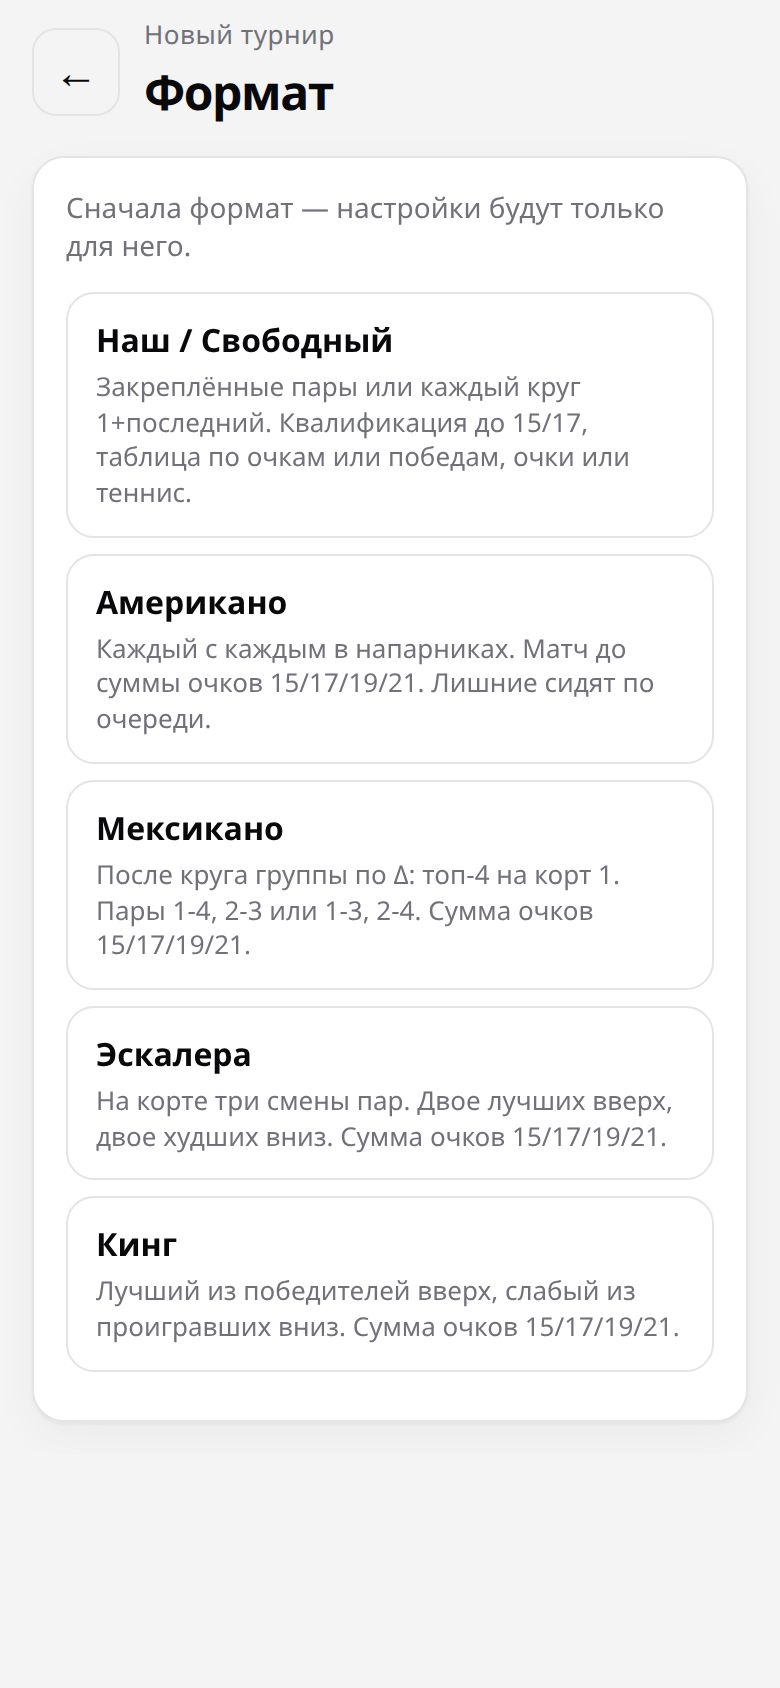
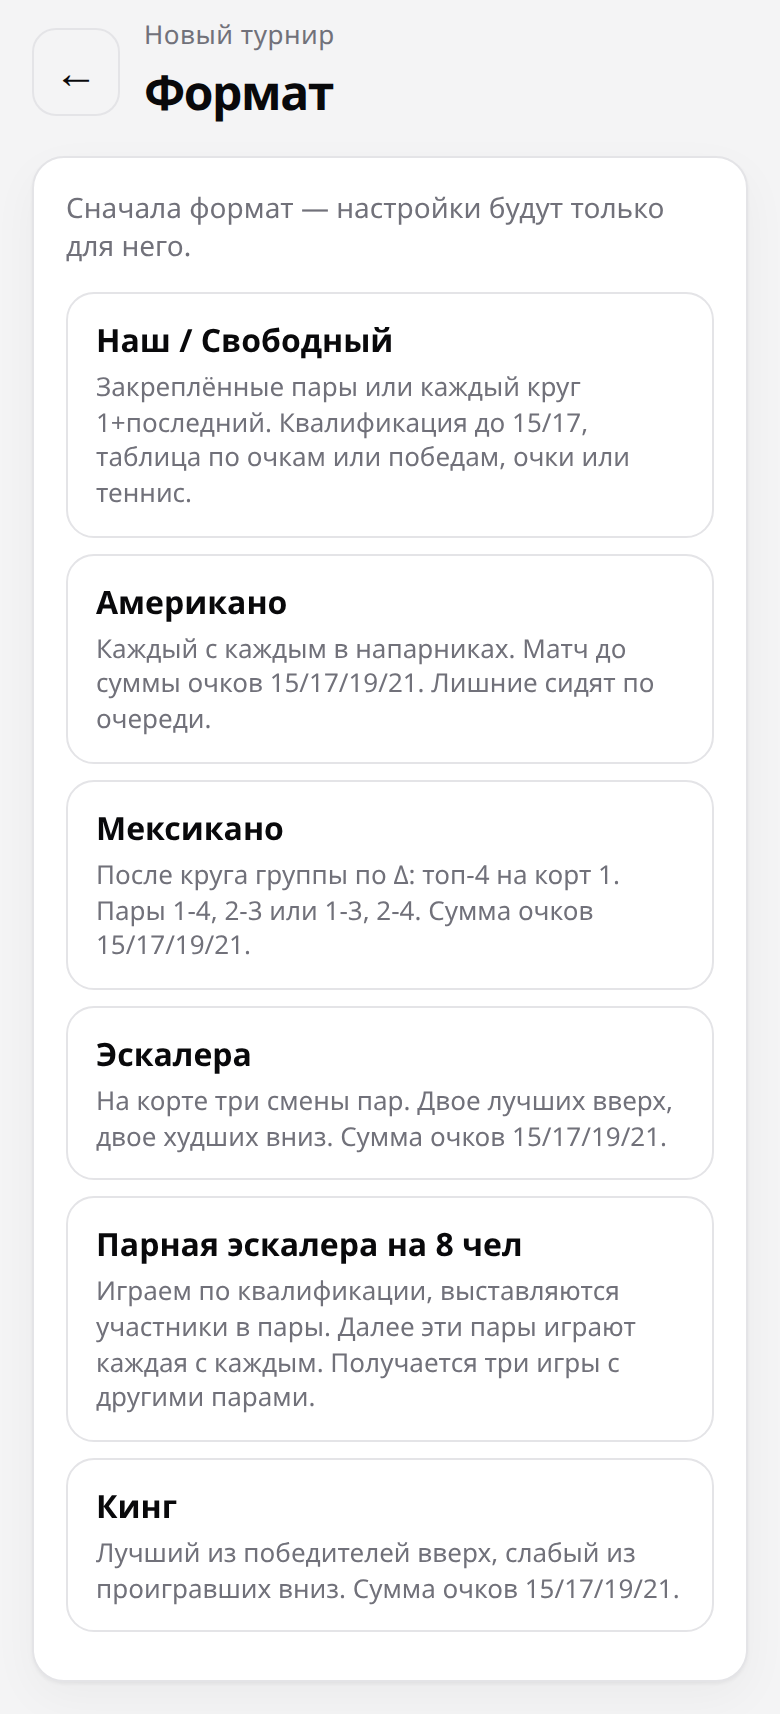
feat(tracker): add pair escalera mode for 8 players (#22)
Bump 0.7.17. Rank 1+last (or mixed skip-from-bottom), 3-round
pair round-robin on 2 courts, then «Новые пары составляем».

diff --git a/tracker/js/render.js b/tracker/js/render.js
@@ -10,7 +10,7 @@ import {
 } from './scoring.js';
 import { computeStandings, sortStandings, standingMarks } from './standings.js';
 import { autoCourts, compactMatchLine, compactSittingLine, formatMatchLine, genderCounts } from './pairing.js';
-import { FORMAT_OPTIONS, formatTitle } from './formats.js';
+import { FORMAT_OPTIONS, formatTitle, pairEscaleraCycleComplete } from './formats.js';
 import { PAIR_CHANGE_METHODS } from './fixed.js';
 import { activeTournament, ensureMatchGames, isFinished } from './state.js';
 import {
@@ -323,6 +323,14 @@ function renderFormatSettings(s, { draft = false, players = [], hideQualifying =
   const toggle = draft ? 'draft-toggle' : 'toggle';
   const toggleBool = draft ? 'draft-toggle-bool' : 'toggle-bool';
   const okMixed = players.length ? canPlayMixed(players) : true;
+  if (format === 'pair-escalera') {
+    return `
+      ${renderMixed(s, action, okMixed, players)}
+      <p class="hint">Ровно 8 игроков, 2 корта. Три круга — каждая пара играет с каждой, затем новые пары по таблице.</p>
+      <h3>Счёт матча</h3>
+      <p class="hint">Как в Lunda: игра до суммы очков, без разницы в 2.</p>
+      ${renderScoringFields(s, { lunda: true, draft })}`;
+  }
   if (format === 'free') {
     return `
       ${renderPairLock(s, action)}
@@ -516,8 +524,11 @@ export function renderScoringFields(s, { lunda = false, draft = false } = {}) {
     ${gamesOn ? renderGamesFields(s, { draft }) : totalOn ? renderTotalPointsFields(s, { draft }) : renderPointsFields(s, { draft })}`;
 }
 
-function rosterHint(players) {
+function rosterHint(players, format) {
   const n = players.length;
+  if (format === 'pair-escalera') {
+    return n === 8 ? '8 игроков · 2 корта' : `${n} игроков · нужно ровно 8`;
+  }
   const courts = autoCourts(n);
   const sit = n % 4;
   if (n < 4) return `${n} игроков · нужно минимум 4`;
@@ -545,14 +556,16 @@ function renderPlayers(store, tournament) {
       </li>`,
     )
     .join('');
-  const ready = players.length >= 4;
+  const format = tournament.settings.tournamentFormat || 'free';
+  const ready = format === 'pair-escalera' ? players.length === 8 : players.length >= 4;
+  const hideAdd = Boolean(finished || (format === 'pair-escalera' && players.length >= 8));
   return `
     <section class="card">
       <h2>Участники</h2>
-      <p class="hint">${esc(rosterHint(players))}${finished ? ' Турнир завершён.' : ''}</p>
+      <p class="hint">${esc(rosterHint(players, format))}${finished ? ' Турнир завершён.' : ''}</p>
       <ul class="player-list">${rows || '<li class="empty">Пока никого нет</li>'}</ul>
       ${
-        finished
+        hideAdd
           ? ''
           : `<form class="add-row" data-action="add-player-form">
         <input class="input" id="add-name" name="name" placeholder="Имя игрока" maxlength="40" autocomplete="off" required />
@@ -570,6 +583,14 @@ function renderPlayers(store, tournament) {
 
 function renderPlay(store, tournament) {
   const playersById = new Map(tournament.players.map((p) => [p.id, p]));
+  const format = tournament.settings.tournamentFormat || 'free';
+  if (format === 'pair-escalera' && tournament.players.length !== 8) {
+    return `
+      <section class="card">
+        <h2>Игры</h2>
+        <p class="hint">Для парной эскалеры нужно ровно 8 игроков (сейчас ${tournament.players.length}).</p>
+      </section>`;
+  }
   if (tournament.players.length < 4) {
     return `
       <section class="card">
@@ -583,7 +604,7 @@ function renderPlay(store, tournament) {
   const lastDone = last && last.matches.every((m) => matchComplete(m, lastSettings, last.kind));
   const mustQual = mustStartWithQualifying(tournament.settings, tournament.rounds);
   const canQual = mustQual && (!last || lastDone);
-  const format = tournament.settings.tournamentFormat || 'free';
+  const cycleDone = pairEscaleraCycleComplete(last) && lastDone;
   const nextLabel =
     format === 'king'
       ? 'Сдвиг короля'
@@ -602,9 +623,14 @@ function renderPlay(store, tournament) {
       `<button type="button" class="btn btn-primary" id="btn-qualifying" data-action="gen-round" data-kind="qualifying">Квалификация</button>`,
     );
   }
-  if (!finished && !mustQual && (!last || lastDone)) {
+  if (!finished && !mustQual && (!last || lastDone) && !cycleDone) {
     actions.push(
       `<button type="button" class="btn btn-primary" id="btn-next-round" data-action="gen-round" data-kind="regular">${nextLabel}</button>`,
+    );
+  }
+  if (!finished && cycleDone) {
+    actions.push(
+      `<button type="button" class="btn btn-primary" id="btn-new-pair-cycle" data-action="gen-round" data-kind="regular">Новые пары составляем</button>`,
     );
   }
   const roundHasEnteredScores = Boolean(

diff --git a/tracker/js/formats.js b/tracker/js/formats.js
@@ -1,11 +1,12 @@
 import { countedGames, gamesSum, settingsForRound } from './scoring.js';
 import { rankPlayers } from './standings.js';
 import { shuffle } from './rng.js';
-import { nextFreeRound } from './fixed.js';
+import { nextFreeRound, playerPairsToIds, roundRobinMatchups } from './fixed.js';
 import {
   autoCourts,
   bestPairingOfFour,
   emptyMatch,
+  pairEscaleraPairs,
   pairingsOfFour,
   partnerCounts,
   partnerKey,
@@ -34,6 +35,11 @@ export const FORMAT_OPTIONS = [
     id: 'escalera',
     title: 'Эскалера',
     hint: 'На корте три смены пар. Двое лучших вверх, двое худших вниз. Сумма очков 15/17/19/21.',
+  },
+  {
+    id: 'pair-escalera',
+    title: 'Парная эскалера на 8 чел',
+    hint: 'Играем по квалификации, выставляются участники в пары. Далее эти пары играют каждая с каждым. Получается три игры с другими парами.',
   },
   {
     id: 'king',
@@ -590,6 +596,47 @@ export function nextFormatRound(args) {
   if (format === 'americano') return { ...nextAmericanoRound(args), format };
   if (format === 'mexicano') return { ...mexicanoMatches(args), format };
   if (format === 'escalera') return { ...nextEscaleraRound(args), format };
+  if (format === 'pair-escalera') return { ...nextPairEscaleraRound(args), format };
   if (format === 'king') return { ...nextKingRound(args), format };
   return null;
+}
+
+/** Цикл из 3 кругов с теми же парами завершён — дальше только «Новые пары составляем». */
+export function pairEscaleraCycleComplete(round) {
+  return Boolean(round && round.format === 'pair-escalera' && Number(round.cycleSlot) >= 2);
+}
+
+export function nextPairEscaleraRound({ players, settings, standings = [], rounds = [] }) {
+  if (players.length !== 8) {
+    throw new Error('Для парной эскалеры нужно ровно 8 игроков.');
+  }
+  const mixed = mixedWanted(settings);
+  const last = [...rounds].reverse().find((r) => r.kind === 'regular' && r.format === 'pair-escalera');
+  const reform = !last || last.cycleSlot == null || Number(last.cycleSlot) >= 2;
+  let idPairs;
+  let slot;
+  if (reform) {
+    const ranked = rankPlayers(players, standings, 'points');
+    idPairs = playerPairsToIds(pairEscaleraPairs(ranked, mixed));
+    slot = 0;
+  } else {
+    idPairs = last.fixedPairs;
+    slot = Number(last.cycleSlot) + 1;
+  }
+  if (!idPairs?.length || idPairs.length !== 4) {
+    throw new Error('Не удалось собрать 4 пары.');
+  }
+  const result = roundRobinMatchups(idPairs, slot);
+  const note = mixed
+    ? `Пары М+Ж · круг ${slot + 1} из 3`
+    : `Пары 1+последний · круг ${slot + 1} из 3`;
+  return {
+    matches: result.matches,
+    sitting: [],
+    fixedPairs: idPairs,
+    note,
+    warning: '',
+    format: 'pair-escalera',
+    cycleSlot: slot,
+  };
 }

diff --git a/tracker/js/app.js b/tracker/js/app.js
@@ -254,6 +254,10 @@ function addPlayer(name) {
   if (!t || isFinished(t)) return;
   const trimmed = name.trim();
   if (!trimmed) return;
+  if ((t.settings.tournamentFormat || '') === 'pair-escalera' && t.players.length >= 8) {
+    toast('В этом режиме ровно 8 игроков.');
+    return;
+  }
   const gender = t.players.length % 2 === 0 ? 'M' : 'F';
   t.players.push({
     id: `p${t.nextPlayerNum++}`,
@@ -322,7 +326,11 @@ function generate(kind, method = null, avoidKeys = null) {
   }
   try {
     const { m, f } = genderCounts(t.players);
-    if ((t.settings.pairType === 'mixed' || t.settings.formatVariant === 'mixed') && m !== f) {
+    if (
+      (t.settings.tournamentFormat || '') !== 'pair-escalera' &&
+      (t.settings.pairType === 'mixed' || t.settings.formatVariant === 'mixed') &&
+      m !== f
+    ) {
       t.settings.pairType = 'any';
       if (t.settings.formatVariant === 'mixed') t.settings.formatVariant = 'classic';
     }
@@ -365,6 +373,7 @@ function generate(kind, method = null, avoidKeys = null) {
       override: Boolean(result.override || method),
       closedEarly: false,
       scoring: scoringSnapshot(t.settings, { forNewRound: true }),
+      cycleSlot: result.cycleSlot ?? null,
     };
     if (result.fixedPairs) t.fixedPairs = result.fixedPairs;
     t.settings.courts = Math.max(1, autoCourts(t.players.length));

diff --git a/tracker/js/pairs.js b/tracker/js/pairs.js
@@ -129,6 +129,7 @@ export function idsOf(players) {
 
 /**
  * Пары по рейтингу: 1+последний, 2+(n-1), … затем сильнейшая пара против слабейшей на корте 1.
+ * При mixed: сверху вниз берём первого, с конца списка ищем первого другого пола; если нет — последнего.
  */
 export function rankingPartnerPairs(ranked, mixed) {
   const remaining = ranked.slice();
@@ -144,6 +145,11 @@ export function rankingPartnerPairs(ranked, mixed) {
     pairs.push([first, partner]);
   }
   return pairs;
+}
+
+/** Парная эскалера на 8: 1-8 / 2-7 / 3-6 / 4-5 или М+Ж с пропуском своего пола снизу. */
+export function pairEscaleraPairs(ranked, mixed) {
+  return rankingPartnerPairs(ranked, mixed);
 }
 
 export function pairsToMatches(pairs) {

diff --git a/tracker/index.html b/tracker/index.html
@@ -26,12 +26,12 @@
     <link rel="manifest" href="./manifest.webmanifest" />
     <link rel="apple-touch-icon" href="./icons/apple-touch-icon.png" sizes="180x180" />
     <link rel="icon" type="image/png" href="./icons/icon-192.png" sizes="192x192" />
-    <link rel="stylesheet" href="./styles.css?v=0.7.16" />
+    <link rel="stylesheet" href="./styles.css?v=0.7.17" />
   </head>
   <body>
     <div id="app">Загрузка…</div>
     <input id="import-file" type="file" accept="application/json,.json" hidden />
-    <script type="module" src="./js/app.js?v=0.7.16"></script>
+    <script type="module" src="./js/app.js?v=0.7.17"></script>
     <script>
       if ('serviceWorker' in navigator) {
         navigator.serviceWorker.register('./sw.js', { scope: './' }).catch(function () {});

diff --git a/tracker/js/pairing.js b/tracker/js/pairing.js
@@ -32,6 +32,7 @@ export {
   partnerKey,
   pairingsOfFour,
   rankingPartnerPairs,
+  pairEscaleraPairs,
   pairsToMatches,
   rotateSitters,
   sittingNote,
@@ -191,6 +192,12 @@ function mixedWanted(settings) {
 }
 
 function assertRoster(players, settings) {
+  if ((settings.tournamentFormat || '') === 'pair-escalera') {
+    if (players.length !== 8) {
+      throw new Error('Для парной эскалеры нужно ровно 8 игроков.');
+    }
+    return;
+  }
   if (players.length < 4) {
     throw new Error('Нужно минимум 4 игрока.');
   }

diff --git a/tracker/sw.js b/tracker/sw.js
@@ -1,5 +1,5 @@
 /* Версия кэша = cache-bust трекера. При релизе подними вместе с ?v= в index.html. */
-const VERSION = '0.7.16';
+const VERSION = '0.7.17';
 const CACHE = `padel-tracker-v${VERSION}`;
 const ASSETS = [
   './',

diff --git a/CHANGELOG.md b/CHANGELOG.md
@@ -1,5 +1,10 @@
 # Changelog
 
+## 0.7.17 — парная эскалера на 8 человек
+
+- Новый режим «Парная эскалера на 8 чел»: пары по таблице (1+последний; при М+Ж — с конца списка первый другого пола), затем круговой график из трёх кругов на двух кортах. Очки пар идут каждому игроку.
+- После трёх сыгранных кругов вместо «Следующий круг» — «Новые пары составляем»: пересортировка по очкам и новый цикл. Пока турнир не завершён.
+
 ## 0.7.16 — случайные М+Ж каждый круг, «Сменить пары» не пропадает
 
 - Свободный + микс + «Случайно»: следующий круг больше не копирует прошлые пары. Причина — выбранный способ не запоминался, а при закреплённых парах `nextFreeRound` всегда брал `fixedPairs` (или детерминированный `ranking-mixed`). Теперь способ сохраняется, случайные пары собираются заново и без повторов партнёров, пока это возможно.
